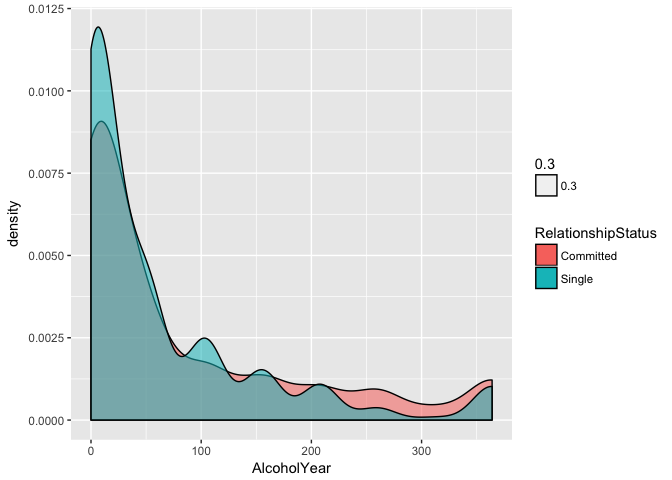
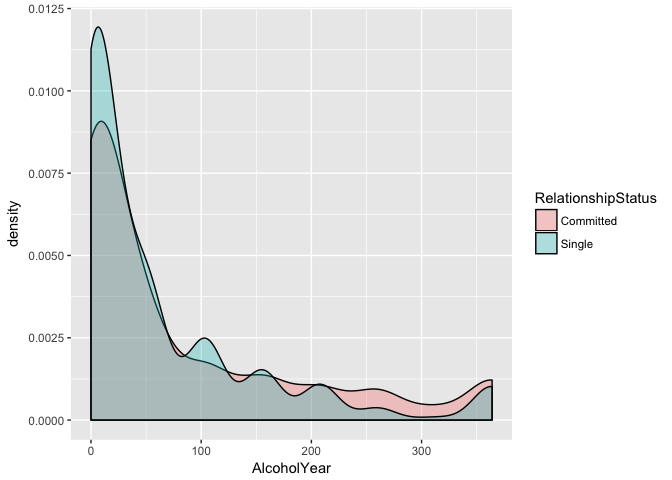
Fixed Alcohol plot

Changed region(s): [[0.125, 0.0625, 0.75, 0.875], [0.7812, 0.3438, 1.0, 0.625]]

diff --git a/R-Analysis.md b/R-Analysis.md
@@ -18,7 +18,7 @@ In this session, we will use the following packages: - tidyverse - or readr, dpl
 library(tidyverse)
 ```
 
-    ## ── Attaching packages ─────────────────────────────────────────── tidyverse 1.2.1 ──
+    ## ── Attaching packages ─────────────────────────────────────────────────── tidyverse 1.2.1 ──
 
     ## ✔ ggplot2 2.2.1     ✔ purrr   0.2.5
     ## ✔ tibble  1.4.2     ✔ dplyr   0.7.6
@@ -27,7 +27,7 @@ library(tidyverse)
 
     ## Warning: package 'dplyr' was built under R version 3.5.1
 
-    ## ── Conflicts ────────────────────────────────────────────── tidyverse_conflicts() ──
+    ## ── Conflicts ────────────────────────────────────────────────────── tidyverse_conflicts() ──
     ## ✖ dplyr::filter() masks stats::filter()
     ## ✖ dplyr::lag()    masks stats::lag()
 
@@ -476,7 +476,7 @@ C. Run the analysis. Is the association between relationship status and alcohol 
 nha %>%
   filter(!is.na(RelationshipStatus)) %>%
   ggplot(aes(AlcoholYear)) + 
-  geom_density(aes(fill = RelationshipStatus, alpha = .3))
+  geom_density(aes(fill = RelationshipStatus), alpha = .3)
 ```
 
     ## Warning: Removed 698 rows containing non-finite values (stat_density).
